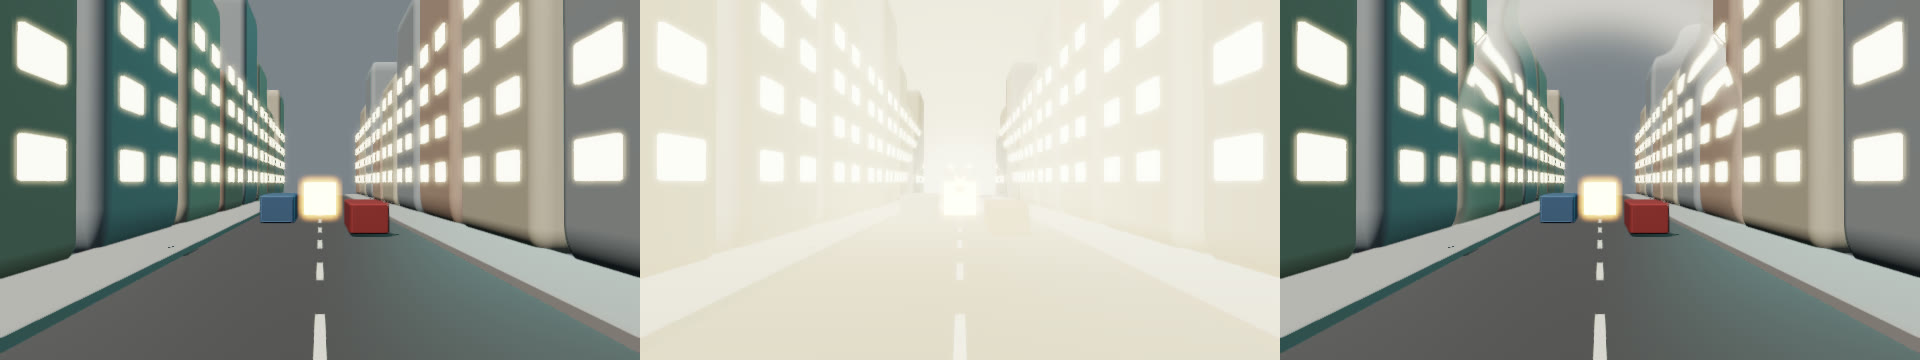
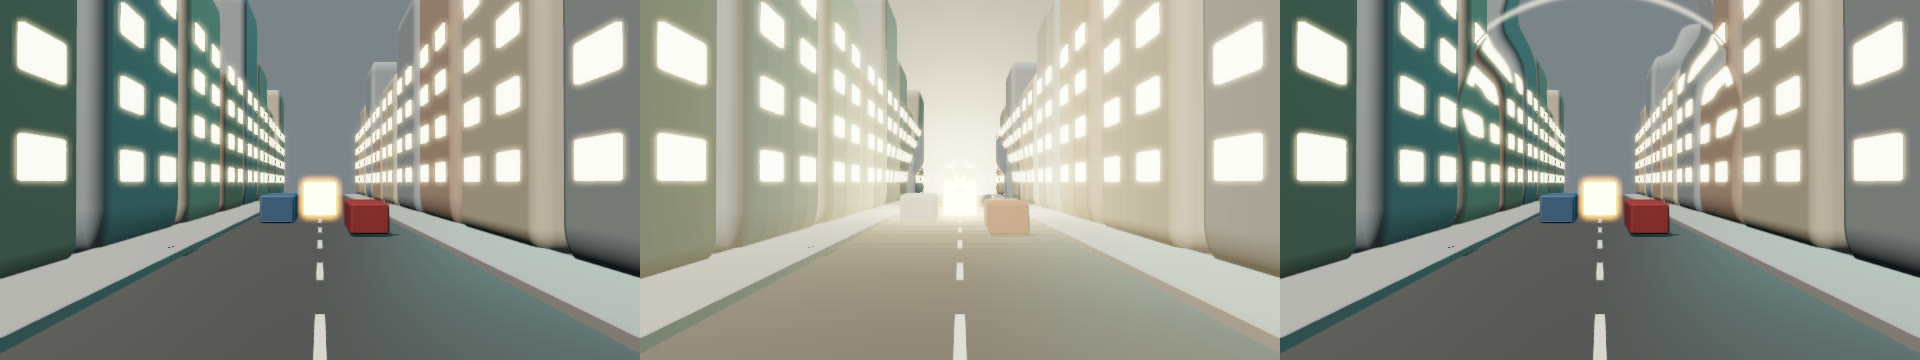
Keep the flash local and the ring edge thin (#1049)
The flash gains an opt-in `ambient` gain (at most 0.5) for a small screen-wide
lift, so the demo can use a tight radius and let near surfaces bloom while the
far street and sky keep their contrast. The ring edge lift is now never wider
than a few pixels, so the sky inside the dome is no longer greyed.

diff --git a/src/post-air.js b/src/post-air.js
@@ -18,7 +18,7 @@ const MAXIMUM_NODE_ID_LENGTH = 128;
 const PLACEMENT_FIELDS = ['centre', 'node', 'time'];
 const RING_FIELDS = ['startTime', 'speed', 'thickness', 'strength', 'falloff', 'maxRadius', 'edge'];
 const HAZE_FIELDS = ['region', 'size', 'noiseScale', 'scroll', 'strength'];
-const FLASH_FIELDS = ['startTime', 'attack', 'decay', 'intensity', 'color', 'radius'];
+const FLASH_FIELDS = ['startTime', 'attack', 'decay', 'intensity', 'color', 'radius', 'ambient'];
 const HAZE_REGIONS = ['box', 'sphere'];
 
 function sourceList(value, step) {
@@ -100,6 +100,7 @@ function resolveFlashSource(input, index) {
     intensity: numberInRange(group.intensity, 4, 0, 1000, `${name}.intensity`),
     color: triple(group.color, [1, 0.85, 0.6], 0, 1, `${name}.color`),
     radius: numberInRange(group.radius, 50, 0.01, MAXIMUM_COORDINATE, `${name}.radius`),
+    ambient: numberInRange(group.ambient, 0, 0, 0.5, `${name}.ambient`),
   };
 }
 
@@ -199,13 +200,18 @@ void main() {
       vec3 radial = origin + direction * along - centre;
       float axisDistance = length(radial);
       float band = (axisDistance - shape[index].x) / shape[index].y;
+      vec3 toCentre = centre - origin;
+      float axisRight = length(cross(normalize(direction + rightDelta), toCentre));
+      float axisUp = length(cross(normalize(direction + upDelta), toCentre));
+      float pixelWidth = max(max(abs(axisRight - axisDistance), abs(axisUp - axisDistance)) * 3.0, 0.0001);
+      float edgeBand = (axisDistance - shape[index].x) / min(shape[index].y, pixelWidth);
       float shellDistance = along - sqrt(max(shape[index].x * shape[index].x - axisDistance * axisDistance, 0.0));
       float weight = exp(-band * band) * (1.0 - smoothstep(surface - shape[index].y, surface, shellDistance));
       if (weight < 0.002 || axisDistance < 0.0001) continue;
       vec2 onScreen = vec2(dot(radial, rightDelta), dot(radial, upDelta));
       if (length(onScreen) < 1e-9) continue;
       shift += normalize(onScreen) * weight * shape[index].z * ${RING_MAXIMUM_SHIFT.toFixed(3)} * resolution.y;
-      edgeLift += weight * shape[index].w;
+      edgeLift += exp(-edgeBand * edgeBand) * (1.0 - smoothstep(surface - shape[index].y, surface, shellDistance)) * shape[index].w;
       guardDistance = min(guardDistance, shellDistance);
     } else {
       // Haze: walk the ray through the box or ellipsoid and shift by noise taken at the middle of the stretch inside it.
@@ -249,13 +255,14 @@ void main() {
 export const flashFragment = `${airHeader}
 uniform int sourceCount;
 uniform vec4 flashPlacement[${MAXIMUM_AIR_SOURCES}];
-uniform vec3 flashLift[${MAXIMUM_AIR_SOURCES}];
+uniform vec4 flashLift[${MAXIMUM_AIR_SOURCES}];
 void main() {
   vec4 source = texture(sourceTexture, textureCoordinate);
   bool isSky = texture(sceneDepth, textureCoordinate).r >= 1.0;
   vec3 origin = rayPointAt(textureCoordinate, -1.0);
   vec3 direction = rayDirectionAt(textureCoordinate);
   vec3 lift = vec3(0.0);
+  float ambient = 0.0;
   for (int index = 0; index < ${MAXIMUM_AIR_SOURCES}; index++) {
     if (index >= sourceCount) break;
     vec3 centre = flashPlacement[index].xyz;
@@ -263,9 +270,11 @@ void main() {
     // Sky has no surface, so the light is measured from the pixel's ray; surfaces are measured from the point they sit at.
     float reach = isSky ? length(toCentre - direction * max(dot(toCentre, direction), 0.0)) : distance(worldPointAt(textureCoordinate), centre);
     float ratio = reach / flashPlacement[index].w;
-    lift += flashLift[index] / (1.0 + ratio * ratio);
+    lift += flashLift[index].rgb / (1.0 + ratio * ratio);
+    ambient += flashLift[index].w;
   }
-  outputColor = vec4(source.rgb + lift, source.a);
+  // Near the source the light falls off with distance; a small screen-wide gain keeps the rest of the frame from going dark by contrast.
+  outputColor = vec4(source.rgb * (1.0 + ambient) + lift, source.a);
 }`;
 
 /** Packs the active sources of a distortion step into the uniform arrays of its shader. */
@@ -293,13 +302,13 @@ export function packDistortion(sources) {
 /** Packs the lit sources of a flash step into the uniform arrays of its shader. */
 export function packFlash(sources) {
   const placement = new Float32Array(MAXIMUM_AIR_SOURCES * 4);
-  const lift = new Float32Array(MAXIMUM_AIR_SOURCES * 3);
+  const lift = new Float32Array(MAXIMUM_AIR_SOURCES * 4);
   let count = 0;
   for (const source of sources) {
     const level = flashLevel(source);
     if (level <= 0) continue;
     placement.set([...source.centre, source.radius], count * 4);
-    lift.set(source.color.map(component => component * level), count * 3);
+    lift.set([...source.color.map(component => component * level), source.ambient * level / source.intensity], count * 4);
     count++;
   }
   return { count, placement, lift };
@@ -331,7 +340,7 @@ export function createFlashStage(stepsOf) {
       const packed = packFlash(stepsOf(frame).flash);
       context.uniform1i(uniforms.sourceCount, packed.count);
       context.uniform4fv(uniforms.flashPlacement, packed.placement);
-      context.uniform3fv(uniforms.flashLift, packed.lift);
+      context.uniform4fv(uniforms.flashLift, packed.lift);
     },
   });
 }

diff --git a/tests/post-air.test.js b/tests/post-air.test.js
@@ -50,7 +50,7 @@ test('a distortion source resolves with defaults and refuses bad input by naming
 
 test('a flash source resolves with defaults and refuses bad input by naming the field', () => {
   const [flash] = resolveFlash({ centre: [1, 2, 3], intensity: 6 });
-  assert.deepEqual(flash, { centre: [1, 2, 3], time: 0, startTime: 0, attack: 0.05, decay: 0.4, intensity: 6, color: [1, 0.85, 0.6], radius: 50 });
+  assert.deepEqual(flash, { centre: [1, 2, 3], time: 0, startTime: 0, attack: 0.05, decay: 0.4, intensity: 6, color: [1, 0.85, 0.6], radius: 50, ambient: 0 });
   assert.throws(() => resolveFlash({ decay: 0 }), /flash\[0\]\.decay must be between 0.01 and 60/);
   assert.throws(() => resolveFlash({ color: [2, 0, 0] }), /flash\[0\]\.color\[0\] must be between 0 and 1/);
   assert.throws(() => resolveFlash({ radius: 0 }), /flash\[0\]\.radius must be between/);

diff --git a/bench/post/air-distortion.js b/bench/post/air-distortion.js
@@ -57,7 +57,7 @@ function ramp(time, start, end) {
 // The steps at one instant: the flash and ring start at once, the heat haze builds up after them.
 function airAt(time) {
   return {
-    flash: { centre: BLAST_CENTRE, time, startTime: 0, attack: 0, decay: 0.15, intensity: 2.5, color: [1, 0.8, 0.5], radius: 30 },
+    flash: { centre: BLAST_CENTRE, time, startTime: 0, attack: 0, decay: 0.15, intensity: 3.5, color: [1, 0.8, 0.5], radius: 6, ambient: 0.15 },
     distortion: [
       { shape: 'ring', centre: BLAST_CENTRE, time, startTime: 0, speed: 45, thickness: 2.2, strength: 1, falloff: 0.6, maxRadius: 70, edge: 0.5 },
       { shape: 'haze', centre: [0, 3, -16], region: 'sphere', size: [5, 4, 5], noiseScale: 1.1, scroll: 3, time, strength: 0.9 * ramp(time, 0.3, 0.9) },

diff --git a/docs/agent-look.md b/docs/agent-look.md
@@ -299,7 +299,7 @@ A blast sells itself in its first frames: a flash, a ring that bends the air, an
 
 ```json
 { "effects": {
-  "flash": { "node": "bomb", "startTime": 0, "attack": 0, "decay": 0.15, "intensity": 2.5, "radius": 30 },
+  "flash": { "node": "bomb", "startTime": 0, "attack": 0, "decay": 0.15, "intensity": 3.5, "radius": 6, "ambient": 0.15 },
   "distortion": [
     { "shape": "ring", "node": "bomb", "startTime": 0, "speed": 45, "thickness": 2.2, "strength": 1, "falloff": 0.6, "edge": 0.5 },
     { "shape": "haze", "centre": [0, 3, -16], "region": "sphere", "size": [5, 4, 5], "noiseScale": 1.1, "scroll": 3, "strength": 0.9 }
@@ -328,7 +328,8 @@ Each step takes one source or a list of up to four. Every source places itself w
 | `flash.decay` | `0.4` | Seconds to fall from full brightness to zero, `0.01` to `60` |
 | `flash.intensity` | `4` | `0` to `1000`, linear scene light added at the point |
 | `flash.color` | `[1, 0.85, 0.6]` | Three numbers, `0` to `1` |
-| `flash.radius` | `50` | Metres, `0.01` to `100000`. The light halves at this distance from the point |
+| `flash.radius` | `50` | Metres, `0.01` to `100000`. The light is `intensity / (1 + (distance / radius)^2)`, so it halves at this distance from the point |
+| `flash.ambient` | `0` | `0` to `0.5`. A screen-wide gain at the flash's peak (`0.15` is 15 percent), so the frame far from the point does not read dark beside it |
 | `*.time` | `0` | Seconds. The scene sets it from the playhead; set it yourself to hold a still of a scene with no motion |
 
 The ring bends the picture where the line of sight passes the centre at the ring radius, and the haze shifts it by noise taken inside its box or sphere. Both read the depth buffer: a surface in front of the bending air is not dragged along, and air behind a wall does nothing. The flash adds light before bloom and tone mapping, so a bright flash feeds bloom where bloom is on. Surfaces are lit by their distance from the point; sky is lit by the distance of its line of sight.
